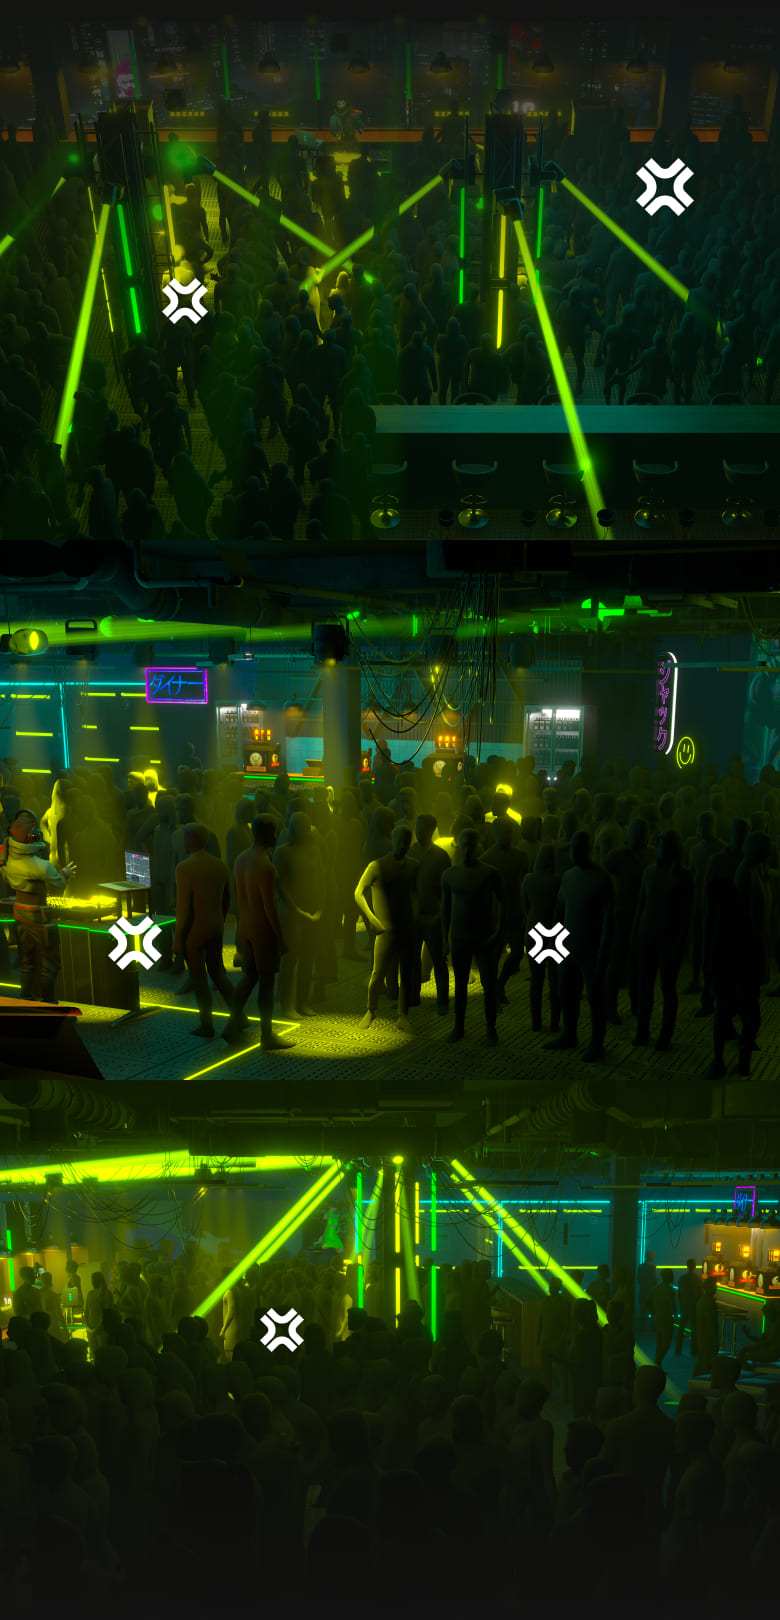
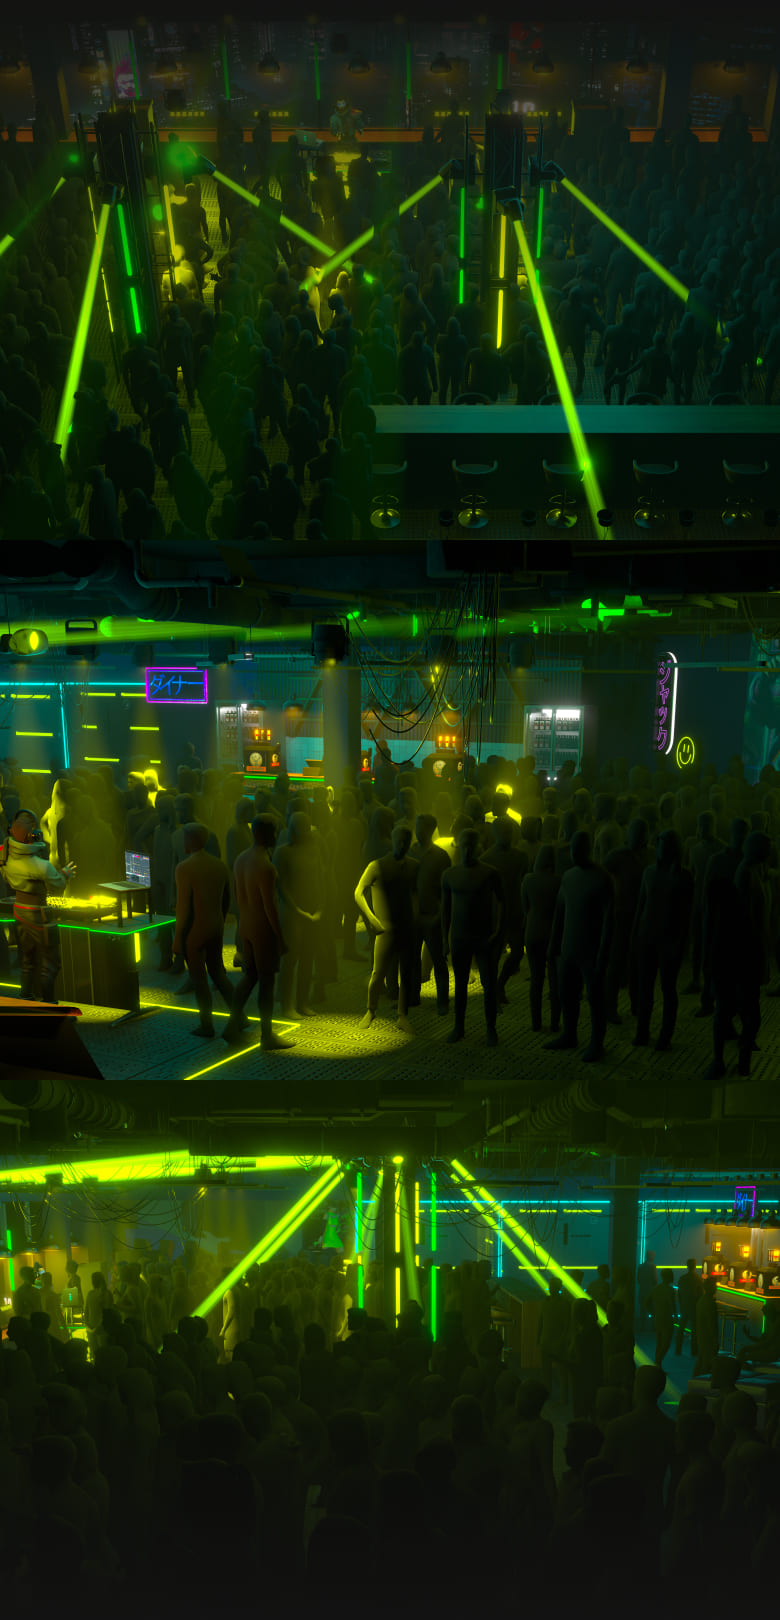
asdasd

diff --git a/components/Pages/Events/CyberChristmas/CyberChristmas.module.css b/components/Pages/Events/CyberChristmas/CyberChristmas.module.css
@@ -812,7 +812,7 @@
     position: relative;
 }
 .willImgContainer img {
-    object-fit: cover;
+    /* object-fit: cover; */
 }
 .disclaimer {
     font-size: 20px;
